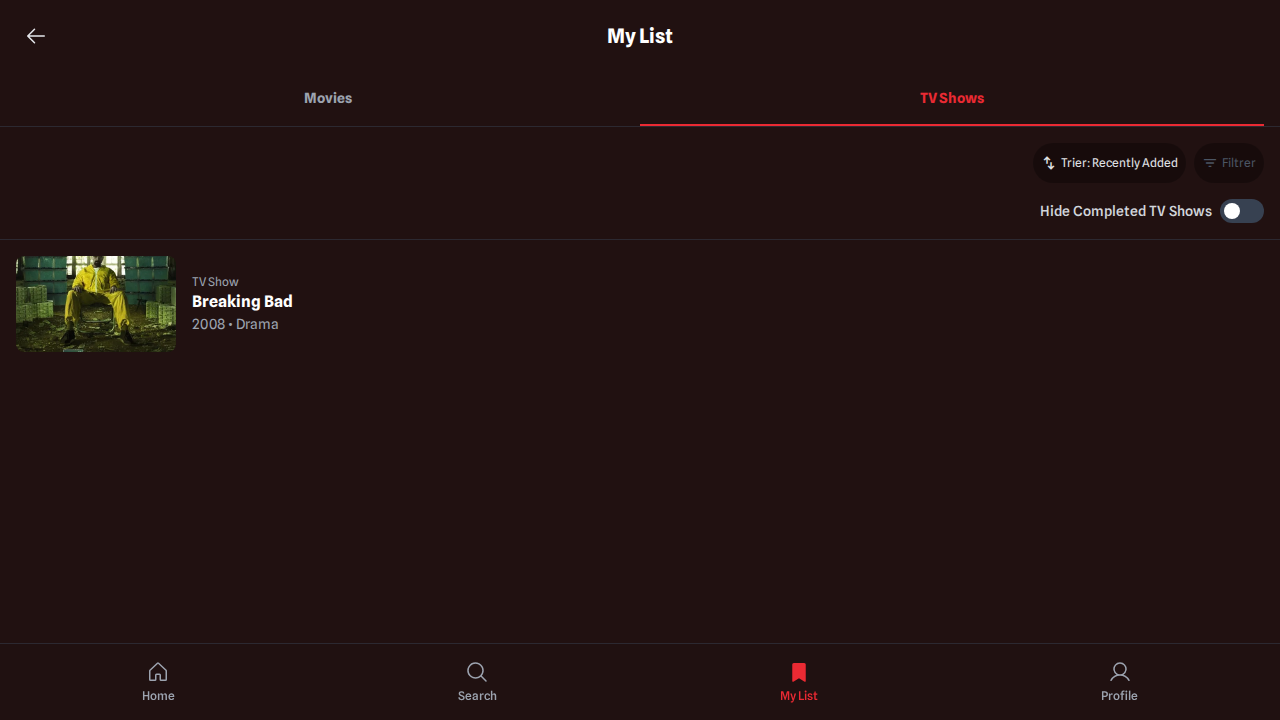
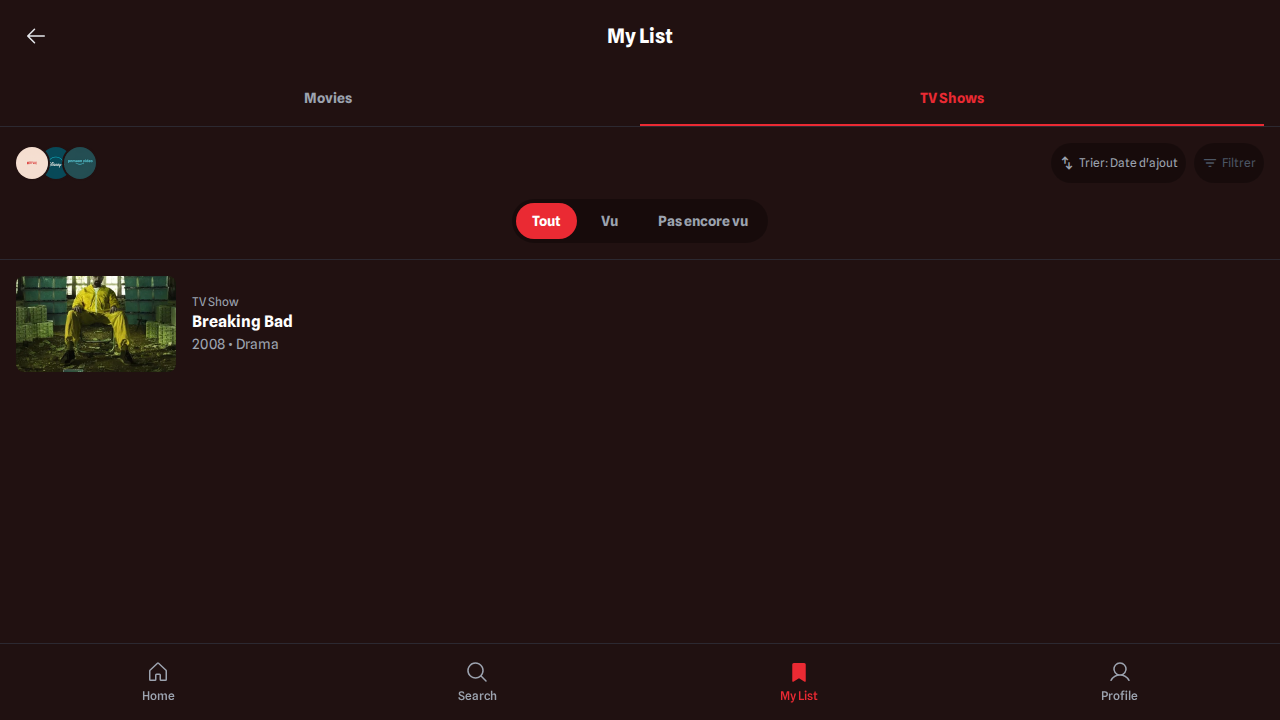
feat: Enhance My List page with dropdown sort and status filter
- Replaces the simple sort toggle with a dropdown menu offering "Popularity," "Release Date," and "Date Added" options.
- Replaces the "Hide Watched" switch with a three-state filter bar ("All," "Watched," "Unwatched") for a more intuitive user experience.
- Updates the verification script to test the new components and ensure platform filters are visible.
- Cleans up the repository by removing obsolete and unnecessary files.

diff --git a/mylist.html b/mylist.html
@@ -57,36 +57,30 @@
             <div class="flex items-center justify-between gap-4">
                 <div id="platform-filter" class="flex items-center -space-x-2">
                 </div>
-                <div class="flex items-center space-x-2">
-                    <button @click="toggleSort()" class="flex items-center space-x-1 rounded-full bg-black/30 p-2 text-xs text-gray-400 hover:text-white transition-colors" data-testid="sort-button">
-                        <span class="material-symbols-outlined text-base">swap_vert</span>
-                        <span x-text="`Trier: ${sortLabel}`"></span>
-                    </button>
+                <div class="flex items-center space-x-2" x-data="{ sortMenuOpen: false }">
+                    <div class="relative">
+                        <button @click="sortMenuOpen = !sortMenuOpen" class="flex items-center space-x-1 rounded-full bg-black/30 p-2 text-xs text-gray-400 hover:text-white transition-colors" data-testid="sort-button">
+                            <span class="material-symbols-outlined text-base">swap_vert</span>
+                            <span x-text="`Trier: ${sortLabel}`"></span>
+                        </button>
+                        <div x-show="sortMenuOpen" @click.away="sortMenuOpen = false" class="absolute right-0 mt-2 w-48 bg-gray-800 rounded-md shadow-lg z-20">
+                            <a href="#" @click.prevent="setSort('popularity'); sortMenuOpen = false" class="block px-4 py-2 text-sm text-gray-300 hover:bg-gray-700">Popularité</a>
+                            <a href="#" @click.prevent="setSort('release_date'); sortMenuOpen = false" class="block px-4 py-2 text-sm text-gray-300 hover:bg-gray-700">Date de sortie</a>
+                            <a href="#" @click.prevent="setSort('recently_added'); sortMenuOpen = false" class="block px-4 py-2 text-sm text-gray-300 hover:bg-gray-700">Date d'ajout</a>
+                        </div>
+                    </div>
                     <button class="flex items-center space-x-1 rounded-full bg-black/30 p-2 text-xs text-gray-600 cursor-not-allowed" disabled>
                         <span class="material-symbols-outlined text-base">filter_list</span>
                         <span>Filtrer</span>
                     </button>
                 </div>
             </div>
-            <div class="flex items-center justify-end" x-show="activeTab === 'tv'">
-                <label class="flex cursor-pointer items-center gap-2" for="hide-completed">
-                    <span class="text-sm font-medium text-gray-700 dark:text-gray-300">Hide Completed TV Shows</span>
-                    <div class="relative">
-                        <input class="sr-only peer" id="hide-completed" type="checkbox" x-model="hideCompleted"/>
-                        <div class="w-11 h-6 bg-gray-200 rounded-full dark:bg-gray-700 peer-checked:bg-primary"></div>
-                        <div class="absolute left-1 top-1 h-4 w-4 rounded-full bg-white transition-all peer-checked:translate-x-full"></div>
-                    </div>
-                </label>
-            </div>
-            <div class="flex items-center justify-end" x-show="activeTab === 'movie'">
-                <label class="flex cursor-pointer items-center gap-2" for="hide-watched">
-                    <span class="text-sm font-medium text-gray-700 dark:text-gray-300">Hide Watched Movies</span>
-                    <div class="relative">
-                        <input class="sr-only peer" id="hide-watched" type="checkbox" x-model="hideWatched"/>
-                        <div class="w-11 h-6 bg-gray-200 rounded-full dark:bg-gray-700 peer-checked:bg-primary"></div>
-                        <div class="absolute left-1 top-1 h-4 w-4 rounded-full bg-white transition-all peer-checked:translate-x-full"></div>
-                    </div>
-                </label>
+            <div class="flex items-center justify-center">
+                <div class="flex items-center space-x-2 rounded-full bg-black/30 p-1">
+                    <button @click="watchStatusFilter = 'all'" :class="{'bg-primary text-white': watchStatusFilter === 'all', 'text-gray-400': watchStatusFilter !== 'all'}" class="rounded-full py-2 px-4 text-center text-sm font-semibold transition-colors duration-300">Tout</button>
+                    <button @click="watchStatusFilter = 'watched'" :class="{'bg-primary text-white': watchStatusFilter === 'watched', 'text-gray-400': watchStatusFilter !== 'watched'}" class="rounded-full py-2 px-4 text-center text-sm font-semibold transition-colors duration-300">Vu</button>
+                    <button @click="watchStatusFilter = 'unwatched'" :class="{'bg-primary text-white': watchStatusFilter === 'unwatched', 'text-gray-400': watchStatusFilter !== 'unwatched'}" class="rounded-full py-2 px-4 text-center text-sm font-semibold transition-colors duration-300">Pas encore vu</button>
+                </div>
             </div>
         </div>
     </header>

diff --git a/mylist.js b/mylist.js
@@ -3,18 +3,16 @@ document.addEventListener('alpine:init', () => {
     Alpine.data('myListPage', () => ({
         watchlist: [],
         activeTab: 'tv', // 'movie' or 'tv'
-        hideCompleted: false,
-        hideWatched: false,
         sortOrder: 'popularity',
         selectedPlatform: null,
         platforms: [],
+        watchStatusFilter: 'all', // 'all', 'watched', 'unwatched'
 
         init() {
             this.loadWatchlist();
             this.extractPlatforms();
             this.$watch('activeTab', () => this.renderMedia());
-            this.$watch('hideCompleted', () => this.renderMedia());
-            this.$watch('hideWatched', () => this.renderMedia());
+            this.$watch('watchStatusFilter', () => this.renderMedia());
             this.$watch('selectedPlatform', () => this.renderMedia());
             this.renderMedia();
             this.renderPlatformFilters();
@@ -86,24 +84,24 @@ document.addEventListener('alpine:init', () => {
                 );
             }
 
-            if (this.activeTab === 'tv' && this.hideCompleted) {
-                filtered = filtered.filter(item => !item.isWatched);
-            }
-
-            if (this.activeTab === 'movie' && this.hideWatched) {
+            if (this.watchStatusFilter === 'watched') {
+                filtered = filtered.filter(item => item.isWatched);
+            } else if (this.watchStatusFilter === 'unwatched') {
                 filtered = filtered.filter(item => !item.isWatched);
             }
 
             return filtered;
         },
 
-        toggleSort() {
-            this.sortOrder = this.sortOrder === 'popularity' ? 'recently_added' : 'popularity';
+        setSort(order) {
+            this.sortOrder = order;
             this.renderMedia();
         },
 
         get sortLabel() {
-            return this.sortOrder === 'popularity' ? 'Popularity' : 'Recently Added';
+            if (this.sortOrder === 'popularity') return 'Popularité';
+            if (this.sortOrder === 'release_date') return 'Date de sortie';
+            return 'Date d\'ajout';
         },
 
         renderMedia() {
@@ -115,6 +113,12 @@ document.addEventListener('alpine:init', () => {
 
             if (this.sortOrder === 'recently_added') {
                 itemsToRender.sort((a, b) => new Date(b.added_at) - new Date(a.added_at));
+            } else if (this.sortOrder === 'release_date') {
+                itemsToRender.sort((a, b) => {
+                    const dateA = new Date(a.year.split(' - ')[0]);
+                    const dateB = new Date(b.year.split(' - ')[0]);
+                    return dateB - dateA;
+                });
             } else { // Popularity (default)
                  itemsToRender.sort((a, b) => {
                     const imdbA = a.imdb === 'xx' ? 0 : parseFloat(a.imdb);

diff --git a/verify_unified_button_and_sort.py b/verify_unified_button_and_sort.py
@@ -33,12 +33,16 @@ async def main():
         await page.wait_for_selector('#watchlist-button.bg-gray-700')
         assert await page.inner_text('#watchlist-button') == 'add\nWatchlist'
 
-        # Add a movie and a series to the list to test sorting
-        await page.goto('http://localhost:8080/film.html?id=1062722')
+        # Add movies and a series to the list to test sorting and platform filters
+        await page.goto('http://localhost:8080/film.html?id=693134') # Dune: Part Two (has platforms)
         await page.wait_for_function("document.querySelector('#media-title').textContent.length > 0")
         await page.click('#watchlist-button')
 
-        await page.goto('http://localhost:8080/serie.html?id=1396')
+        await page.goto('http://localhost:8080/film.html?id=1062722') # Frankenstein (no platforms)
+        await page.wait_for_function("document.querySelector('#media-title').textContent.length > 0")
+        await page.click('#watchlist-button')
+
+        await page.goto('http://localhost:8080/serie.html?id=1396') # Breaking Bad (no platforms)
         await page.wait_for_function("document.querySelector('#media-title').textContent.length > 0")
         await page.click('#watchlist-button')
 
@@ -47,13 +51,17 @@ async def main():
         await page.goto('http://localhost:8080/mylist.html')
         await page.wait_for_selector('#media-list')
 
+        # Check that platform filters are visible
+        await page.wait_for_selector('#platform-filter > button')
+
         # Default sort: Popularity
         sort_button_text = await page.inner_text('[data-testid="sort-button"]')
-        assert 'Popularity' in sort_button_text
+        assert 'Popularité' in sort_button_text
 
         # Click to change sort order
         await page.click('[data-testid="sort-button"]')
-        await page.wait_for_function("document.querySelector('[data-testid=\"sort-button\"]').textContent.includes('Recently Added')")
+        await page.click('text=Date d\'ajout')
+        await page.wait_for_function("document.querySelector('[data-testid=\"sort-button\"]').textContent.includes('Date d\\\'ajout')")
 
         # Take a screenshot
         await page.screenshot(path='verification/unified_button_and_sort_verification.png')
